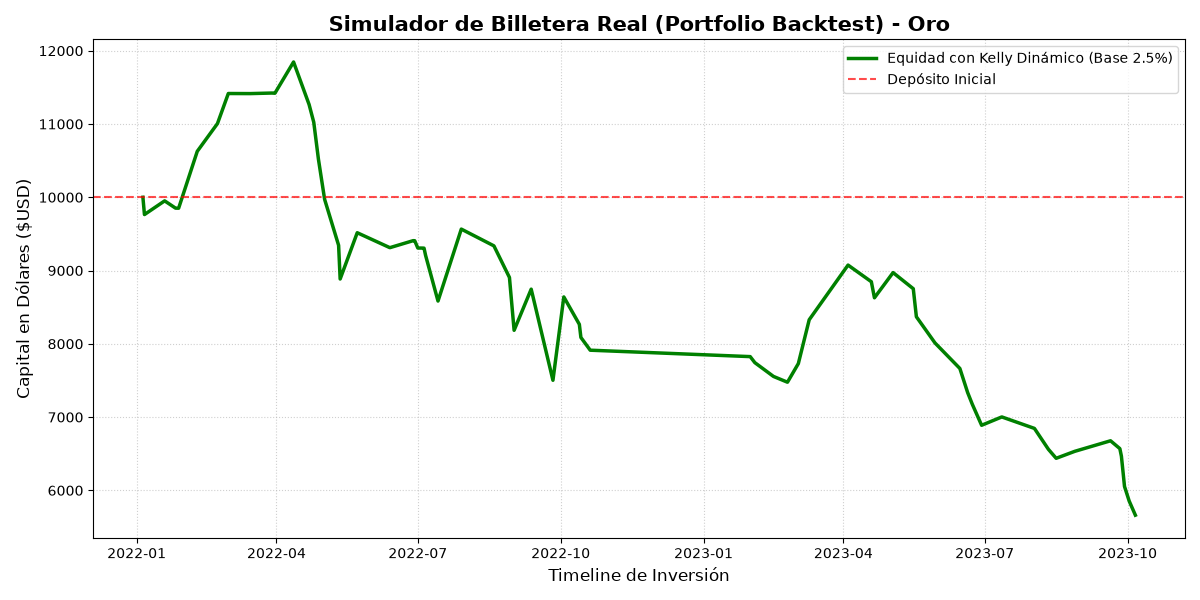
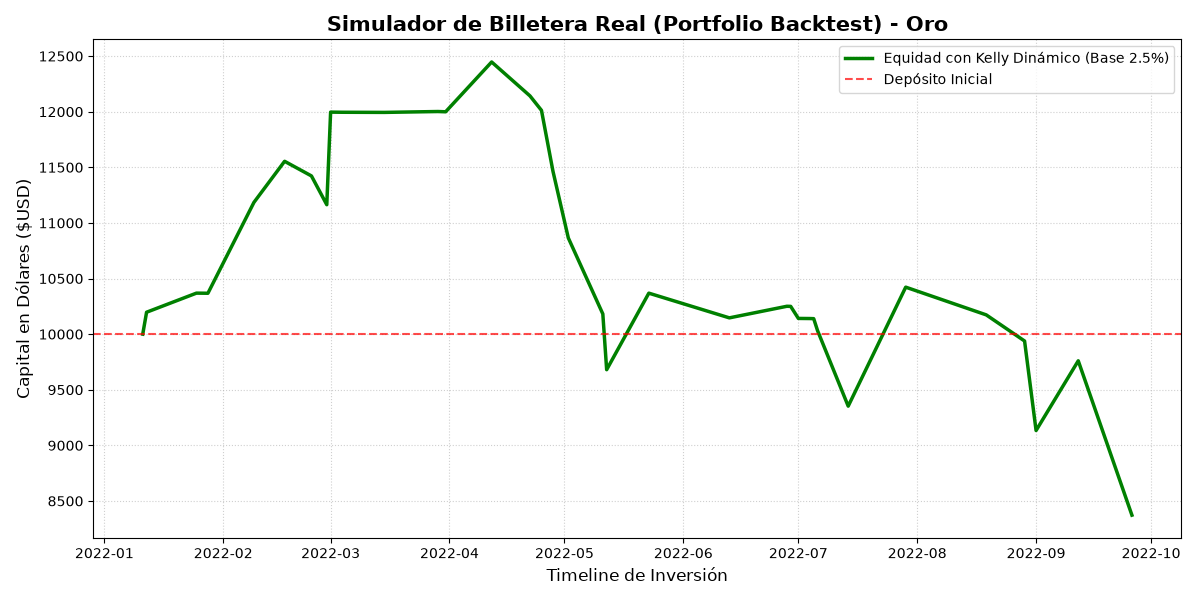
feat(mlops): Integración completa de MLflow (Experiment Tracking & Model Registry)

diff --git a/src/evaluation/portfolio_backtester.py b/src/evaluation/portfolio_backtester.py
@@ -124,14 +124,75 @@ def simulate_portfolio(activo="EURUSD", capital_inicial=10000.0, riesgo_por_trad
     plt.grid(True, linestyle=':', alpha=0.6)
     plt.legend()
     plt.tight_layout()
-    plt.savefig(f"portfolio_backtest_{activo}.png")
-    print(f"✅ Gráfico guardado como 'portfolio_backtest_{activo}.png'")
+    chart_path = f"portfolio_backtest_{activo}.png"
+    plt.savefig(chart_path)
+    print(f"✅ Gráfico guardado como '{chart_path}'")
     # plt.show() # Desactivado para no bloquear el script global
     
+    # 6. MLflow Tracking de Métricas Financieras
+    try:
+        import mlflow
+        mlflow.set_experiment("Portfolio_Evaluation")
+        with mlflow.start_run(run_name=f"Champion_{activo}_{mejor_modelo}"):
+            mlflow.log_params({
+                "activo": activo,
+                "campeon_modelo": mejor_modelo,
+                "banco": str(data.get("banco", "Desconocido")),
+                "umbral": umbral_base,
+                "capital_inicial": capital_inicial,
+                "riesgo_por_trade": riesgo_por_trade,
+                "is_dead": str(data.get("is_dead", False))
+            })
+            
+            m_dict = data.get("metrics", {})
+            raw_metrics = {
+                "capital_final": capital_actual,
+                "roi_total": roi_total,
+                "roi_anualizado": roi_anualizado if dias_totales > 0 else 0.0,
+                "alpha_neto": data.get("alpha", 0.0),
+                "ret_est": data.get("ret_est", 0.0),
+                "ret_mkt": data.get("ret_mkt", 0.0),
+                "cagr_est": data.get("cagr_est", 0.0),
+                "cagr_mkt": data.get("cagr_mkt", 0.0),
+                "win_rate": data.get("win_rate", 0.0),
+                "trades_count": float(data.get("trades", 0)),
+                "avg_duration_days": data.get("avg_duration", 0.0),
+                "sharpe_ratio": m_dict.get("Sharpe", 0.0),
+                "sortino_ratio": m_dict.get("Sortino", 0.0),
+                "calmar_ratio": m_dict.get("Calmar", 0.0),
+                "profit_factor": m_dict.get("ProfitFactor", 0.0),
+                "max_drawdown": m_dict.get("MaxDD", 0.0),
+                "deflated_sharpe_ratio": m_dict.get("DSR", 0.0),
+                "probabilistic_sharpe_ratio": m_dict.get("PSR", 0.0),
+                "montecarlo_mdd_p95": m_dict.get("MonteCarlo_MDD_P95", 0.0),
+                "cvar_95": m_dict.get("CVaR_95", 0.0)
+            }
+            clean_metrics = {}
+            for k, v in raw_metrics.items():
+                try:
+                    val = float(v)
+                    if not np.isnan(val) and not np.isinf(val):
+                        clean_metrics[k] = val
+                except (ValueError, TypeError):
+                    pass
+                    
+            mlflow.log_metrics(clean_metrics)
+            
+            if os.path.exists(chart_path):
+                mlflow.log_artifact(chart_path, artifact_path="charts")
+            
+            campeon_json = os.path.join(results_dir, f"campeon_{activo}.json")
+            if os.path.exists(campeon_json):
+                mlflow.log_artifact(campeon_json, artifact_path="champion_config")
+    except Exception as ml_err:
+        print(f"⚠️ MLflow portfolio logging skipped: {ml_err}")
+
+
     # Retornar la serie del activo (GRASP: Information Expert)
     df_asset = pd.DataFrame({'cum_ret': cum_ret_series}, index=exit_times)
     df_asset = df_asset[~df_asset.index.duplicated(keep='last')]
     return df_asset['cum_ret']
+
 
 if __name__ == "__main__":
     # Configura aquí tu cuenta de banco y tu riesgo!

diff --git a/src/evaluation/backtester.py b/src/evaluation/backtester.py
@@ -427,6 +427,44 @@ class TripleBarrierBacktester:
                         )
                         metrics.update(mc_dsr_metrics)
                         
+                        # --- MLflow Candidate Tracking ---
+                        try:
+                            import mlflow
+                            mlflow.set_experiment(f"Tournament_{self.activo}")
+                            with mlflow.start_run(run_name=f"{modelo}_{banco}_{umbral:.0%}", nested=True):
+                                mlflow.log_params({
+                                    "activo": self.activo,
+                                    "modelo": modelo,
+                                    "banco": banco,
+                                    "umbral": umbral,
+                                    "is_dead": str(is_dead)
+                                })
+                                raw_cand_metrics = {
+                                    "alpha": alpha,
+                                    "retorno_estrategia": retorno_estrategia,
+                                    "retorno_mercado": retorno_mercado_total,
+                                    "cagr_est": cagr_est,
+                                    "cagr_mkt": cagr_mkt,
+                                    "win_rate": win_rate,
+                                    "n_trades": float(n_trades),
+                                    "sharpe": metrics.get("Sharpe", 0.0),
+                                    "sortino": metrics.get("Sortino", 0.0),
+                                    "calmar": metrics.get("Calmar", 0.0),
+                                    "max_dd": metrics.get("MaxDD", 0.0),
+                                    "dsr": metrics.get("DSR", 0.0)
+                                }
+                                clean_cand_metrics = {}
+                                for k, v in raw_cand_metrics.items():
+                                    try:
+                                        val = float(v)
+                                        if not np.isnan(val) and not np.isinf(val):
+                                            clean_cand_metrics[k] = val
+                                    except (ValueError, TypeError):
+                                        pass
+                                mlflow.log_metrics(clean_cand_metrics)
+                        except Exception:
+                            pass
+
                         if alpha > mejor_alpha:
                             mejor_alpha = alpha
                             campeon_actual = {
@@ -450,6 +488,7 @@ class TripleBarrierBacktester:
                 print(f"  Campeon {modelo.upper():>15}: {campeon_actual['banco']:<15} | Estado: {status_str} | Alpha: {campeon_actual['alpha']:>8.2%} | Win: {campeon_actual['win_rate']:>6.1%} | Trades: {campeon_actual['trades']}")
 
         return campeones, df_backtest if 'df_backtest' in locals() else None
+
 
     def generate_html_report(self, campeones):
         if not campeones:
@@ -673,6 +712,30 @@ class TripleBarrierBacktester:
                 hybrid_monitor.hmm_model.save(os.path.join(self.results_dir, f"campeon_{self.activo}_hmm.pkl"))
             
         print(f"  💾 Configuración de Producción exportada: {json_path} (Alpha: {data['alpha']:.2%})")
+
+        # MLflow Model Registry Champion Export Logging
+        try:
+            import mlflow
+            mlflow.set_experiment("Model_Registry_Champions")
+            with mlflow.start_run(run_name=f"Champion_Export_{self.activo}_{mejor_modelo}"):
+                mlflow.log_params(config)
+                mlflow.log_metrics({
+                    "champion_alpha": float(data.get('alpha', 0.0)),
+                    "champion_win_rate": float(data.get('win_rate', 0.0)),
+                    "champion_cagr": float(data.get('cagr_est', 0.0))
+                })
+                if os.path.exists(json_path):
+                    mlflow.log_artifact(json_path, artifact_path="champion_config")
+                
+                html_path = os.path.join(self.results_dir, f"backtest_report_{self.activo}.html")
+                if os.path.exists(html_path):
+                    mlflow.log_artifact(html_path, artifact_path="reports")
+                equity_path = os.path.join(self.results_dir, f"equity_curve_{self.activo}.png")
+                if os.path.exists(equity_path):
+                    mlflow.log_artifact(equity_path, artifact_path="charts")
+        except Exception:
+            pass
+
 
 
 def main():

diff --git a/src/main_training.py b/src/main_training.py
@@ -10,6 +10,8 @@ sys.stderr.reconfigure(encoding='utf-8', line_buffering=True)
 os.environ['PYTHONUNBUFFERED'] = '1'
 from sklearn.metrics import accuracy_score
 import tensorflow as tf
+import mlflow
+import mlflow.sklearn
 
 from models.random_forest import RandomForestTrainer
 from models.xgb_model import XGBoostTrainer
@@ -20,6 +22,7 @@ from models.lstm_rf import HybridLSTMRFTrainer
 
 warnings.filterwarnings("ignore")
 os.environ['TF_CPP_MIN_LOG_LEVEL'] = '3'
+
 
 # ==============================================================================
 # CONFIGURACIÓN DEL EXPERIMENTO
@@ -94,6 +97,11 @@ def train_for_asset(activo: str):
     os.makedirs(models_out_dir, exist_ok=True)
     
     resultados_globales = []
+
+    try:
+        mlflow.set_experiment(f"Training_{activo}")
+    except Exception as e:
+        print(f"⚠️ No se pudo configurar experimento MLflow: {e}")
 
     # 2. Iteración de Modelos
     for nombre_modelo in MODELOS_A_CORRER:
@@ -221,6 +229,28 @@ def train_for_asset(activo: str):
                 npy_train_path = os.path.join(results_dir, f"train_probs_{nombre_modelo.lower()}_{nombre_banco.lower()}_{activo}.npy")
                 np.save(npy_train_path, np.array(train_probs))
             
+            # --- MLflow Logging ---
+            try:
+                run_name = f"{nombre_modelo}_{nombre_banco}_{activo}"
+                with mlflow.start_run(run_name=run_name, nested=True):
+                    mlflow.log_params({
+                        "activo": activo,
+                        "modelo": nombre_modelo,
+                        "banco": nombre_banco,
+                        "target_col": target_col,
+                        "num_features": len(valid_features),
+                        "features": ",".join(valid_features) if valid_features else "None",
+                        "best_params": str(best_params)
+                    })
+                    if 'pred_probs' in locals() and len(pred_probs) > 0:
+                        mlflow.log_metric("oos_predictions_count", len(pred_probs))
+                    if os.path.exists(save_path):
+                        mlflow.log_artifact(save_path, artifact_path="saved_models")
+                    if os.path.exists(npy_path):
+                        mlflow.log_artifact(npy_path, artifact_path="probs")
+            except Exception as ml_err:
+                print(f"⚠️ MLflow logging skipped: {ml_err}")
+
             resultados_globales.append({
                 "Activo": activo,
                 "Modelo": nombre_modelo,
@@ -232,6 +262,7 @@ def train_for_asset(activo: str):
             import gc
             tf.keras.backend.clear_session()
             gc.collect()
+
 
     # 4. Resumen Global
     if resultados_globales:

diff --git a/README.md b/README.md
@@ -35,10 +35,11 @@ La estadística del mercado envejece. El sistema calcula constantemente la Media
 ### 4. Shadow Journal (Diario Sin Estado en Producción)
 Para alimentar los detectores de MLOps en el día a día sin depender de bases de datos o archivos `.csv` corruptibles, el bot en vivo utiliza una arquitectura **Stateless**. Cada mañana descarga los últimos 300 días de historial, predice las probabilidades "al vuelo" y simula internamente las operaciones recientes usando el `TripleBarrierBacktester`. El resultado de esta simulación "sombra" le permite saber instantáneamente si está en racha perdedora y auto-bloquearse (activar Cuarentena) antes de lanzar la orden del día.
 
-### 5. Hierarchical Risk Parity (HRP)
-Implementación nativa del algoritmo de asignación de capital de Marcos López de Prado. En lugar de utilizar la inestable optimización de Markowitz, el sistema agrupa los activos según su correlación histórica mediante *Clustering Jerárquico*. El simulador global calcula los pesos ideales, y el bot en Producción lee esta matriz resultante (`hrp_weights.json`), reduciendo dinámicamente el presupuesto (lotes) de aquellos bots que estén altamente correlacionados entre sí para maximizar la diversificación real.
+### 6. MLflow Experiment Tracking & Model Registry
+Seguimiento automático de experimentos MLOps. Registra hiperparámetros, métricas estadísticas y financieras (Sharpe, Alpha, Win Rate, ROI), gráficos de equidad y artefactos de modelos. Permite comparar ejecuciones históricas y versionar campeones mediante una interfaz web interactiva accesible vía `mlflow ui`.
 
 ---
+
 
 ## 📁 Estructura del Proyecto
 
@@ -93,27 +94,27 @@ python src/main_training.py
 ```
 *El script más pesado. Ejecútalo 1 o 2 veces al año. Pone a competir a decenas de arquitecturas (XGBoost, LSTM, BiLSTM, ARIMA-LSTM, LSTM-RF) con diferentes bancos de datos. Realiza Grid Search, Purged K-Fold y genera simulaciones de Walk-Forward. Emite archivos `.npy` con predicciones puras y `.pkl` con modelos entrenados en `results/`.*
 
-### 3. Simulación Financiera Completa (El Script Pesado)
+### 3. Simulación Financiera y Entrenamiento MLOps (`portfolio_backtester.py`)
 ```bash
 python src/evaluation/portfolio_backtester.py
 ```
-*Este es el corazón analítico del sistema. Ejecuta el Torneo Financiero completo:*
-- *Lee las predicciones `.npy` de los obreros y **entrena a los Gerentes de Riesgo (HMM y LSTM Autoencoder)** sobre los datos In-Sample.*
-- *Guarda todos los modelos MLOps entrenados en `results/mlops_monitors/` para reutilización rápida.*
-- *Aplica las reglas de **Cuarentena (60 días)** y **Muerte por MDD (15%)** al Out-of-Sample.*
-- *Simula el capital real en USD con **Kelly Dinámico** y genera gráficos de rendimiento.*
-- *Ejecuta la optimización **HRP (Hierarchical Risk Parity)** multi-activo y exporta los pesos a `hrp_weights.json`.*
-- *Corona al mejor modelo como `campeon_{activo}.json` con sus filtros MLOps listos para Producción.*
+*Este es el corazón analítico del sistema. Ejecuta el Torneo Financiero completo con **Kelly Dinámico** y **HRP**:*
 
-> ⏱️ **Duración estimada:** ~1-2 horas (entrena HMM + Autoencoder para cada combinación modelo/banco).
+#### 🔄 Modos de Ejecución (`fast_mode`):
+- **Re-entrenamiento MLOps Anual (`fast_mode=False`):** (~1-2 horas). Entrena los modelos de detección de anomalías (HMM y LSTM Autoencoder) desde cero para cada combinación de activo/modelo/banco sobre los datos In-Sample. Se ejecuta **1 o 2 veces al año** y guarda los monitores entrenados en `results/mlops_monitors/`.
+- **Evaluación Rápida (`fast_mode=True`):** (~2 minutos - **Modo por defecto**). Carga los Autoencoders y HMMs pre-entrenados desde `results/mlops_monitors/` en segundos para simular el capital en USD, calcular el **HRP** y generar los archivos de campeones.
 
-### 3b. Backtester Rápido y Reportes (`fast_mode`)
-Si solo quieres regenerar los reportes, el JSON de producción o revisar los resultados sin tener que esperar 2 horas de entrenamiento, corre el backtester independiente.
-Por defecto usa `fast_mode=True`, lo que significa que carga los Autoencoders y modelos pre-entrenados desde `results/mlops_monitors/` en segundos:
+> 💡 **Orden de Ejecución Recomendado:**
+> 1. `main_training.py` (Genera predicciones `.npy` de los modelos base).
+> 2. `portfolio_backtester.py` con `fast_mode=False` (Entrena y guarda los monitores MLOps).
+> 3. `portfolio_backtester.py` con `fast_mode=True` o `backtester.py` (Evaluación diaria/semanal rápida).
 
+### 3b. Backtester Rápido Independiente (`backtester.py`)
 ```bash
 python src/evaluation/backtester.py
 ```
+*Si solo quieres regenerar los reportes HTML, los gráficos de curva de equidad o exportar la configuración del campeón sin pasar por la simulación de billetera en USD, corre el backtester independiente (`fast_mode=True` por defecto).*
+
 
 ### 4. Puesta en Producción (Live Trading)
 ```bash
@@ -168,6 +169,19 @@ python -m pytest tests/ -v
 
 > [!TIP]
 > Corre `pytest` después de cualquier cambio en los módulos de preprocesamiento o riesgo para asegurar que no introdujiste un bug silencioso.
+
+## 📊 MLflow Dashboard (Experiment Tracking & Model Registry)
+
+El sistema integra **MLflow** para registrar automáticamente cada experimento de entrenamiento, torneo de backtest y simulación financiera de portafolio.
+
+### Iniciar la Interfaz Web Local
+```bash
+mlflow ui
+```
+Abre tu navegador en `http://127.0.0.1:5000` para visualizar:
+- **Training Experiments:** Hiperparámetros, cantidad de predicciones OOS y artefactos `.pkl` / `.keras` por cada combinación modelo/banco.
+- **Tournament Runs:** Alpha, Win Rate, Sharpe, Sortino, Calmar, Max Drawdown y Deflated Sharpe Ratio (DSR) de cada candidato evaluado.
+- **Portfolio Evaluation:** ROI Total, ROI Anualizado, Capital Final, gráficos de equidad y configuración del Campeón exportado para producción.
 
 ## ⚙️ Configuración del Entorno
 